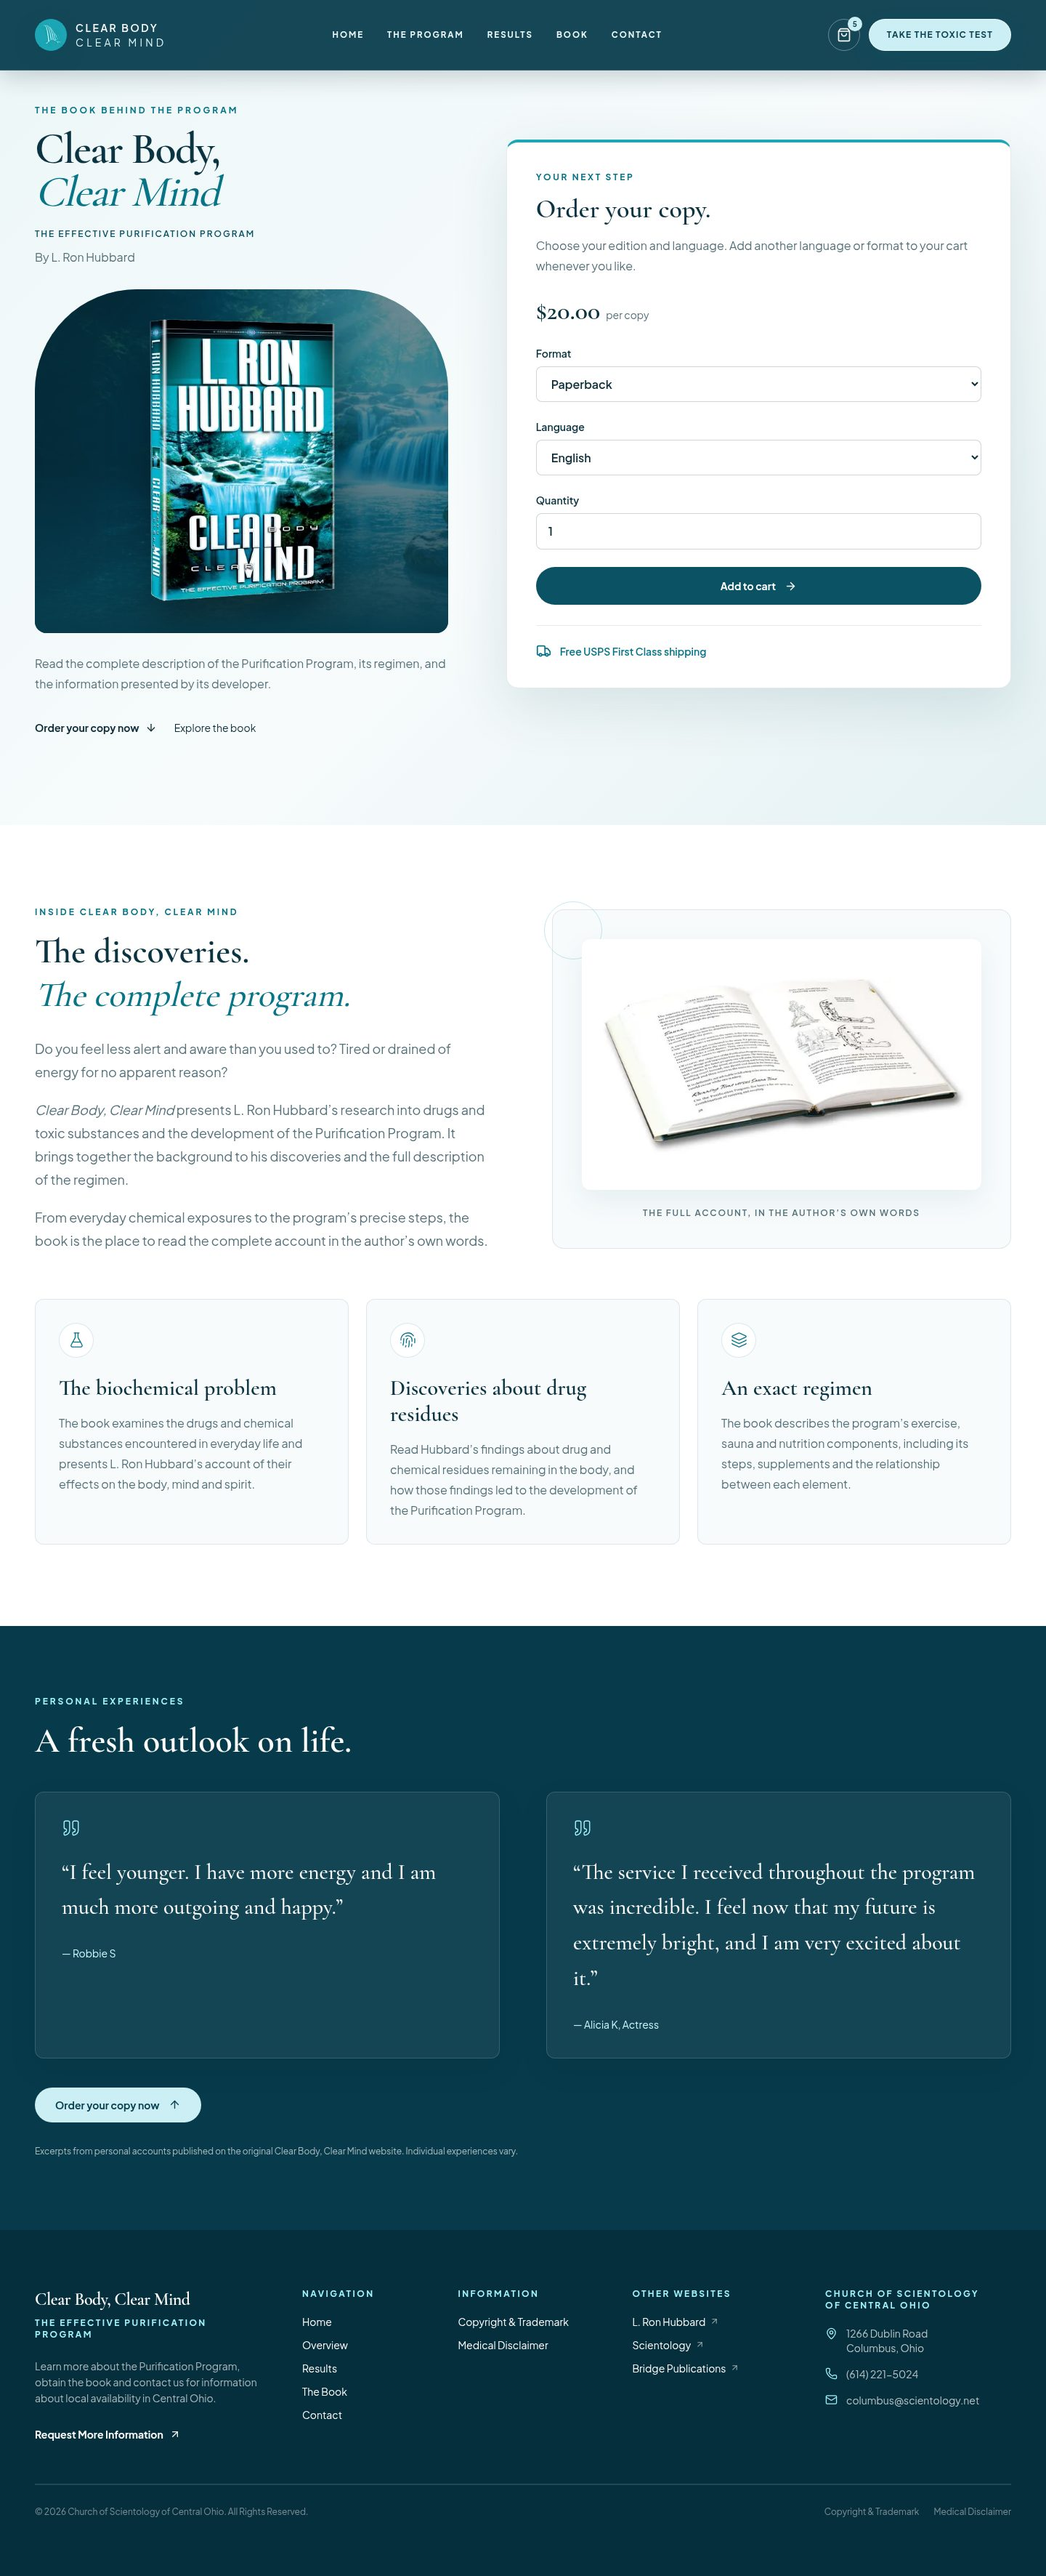
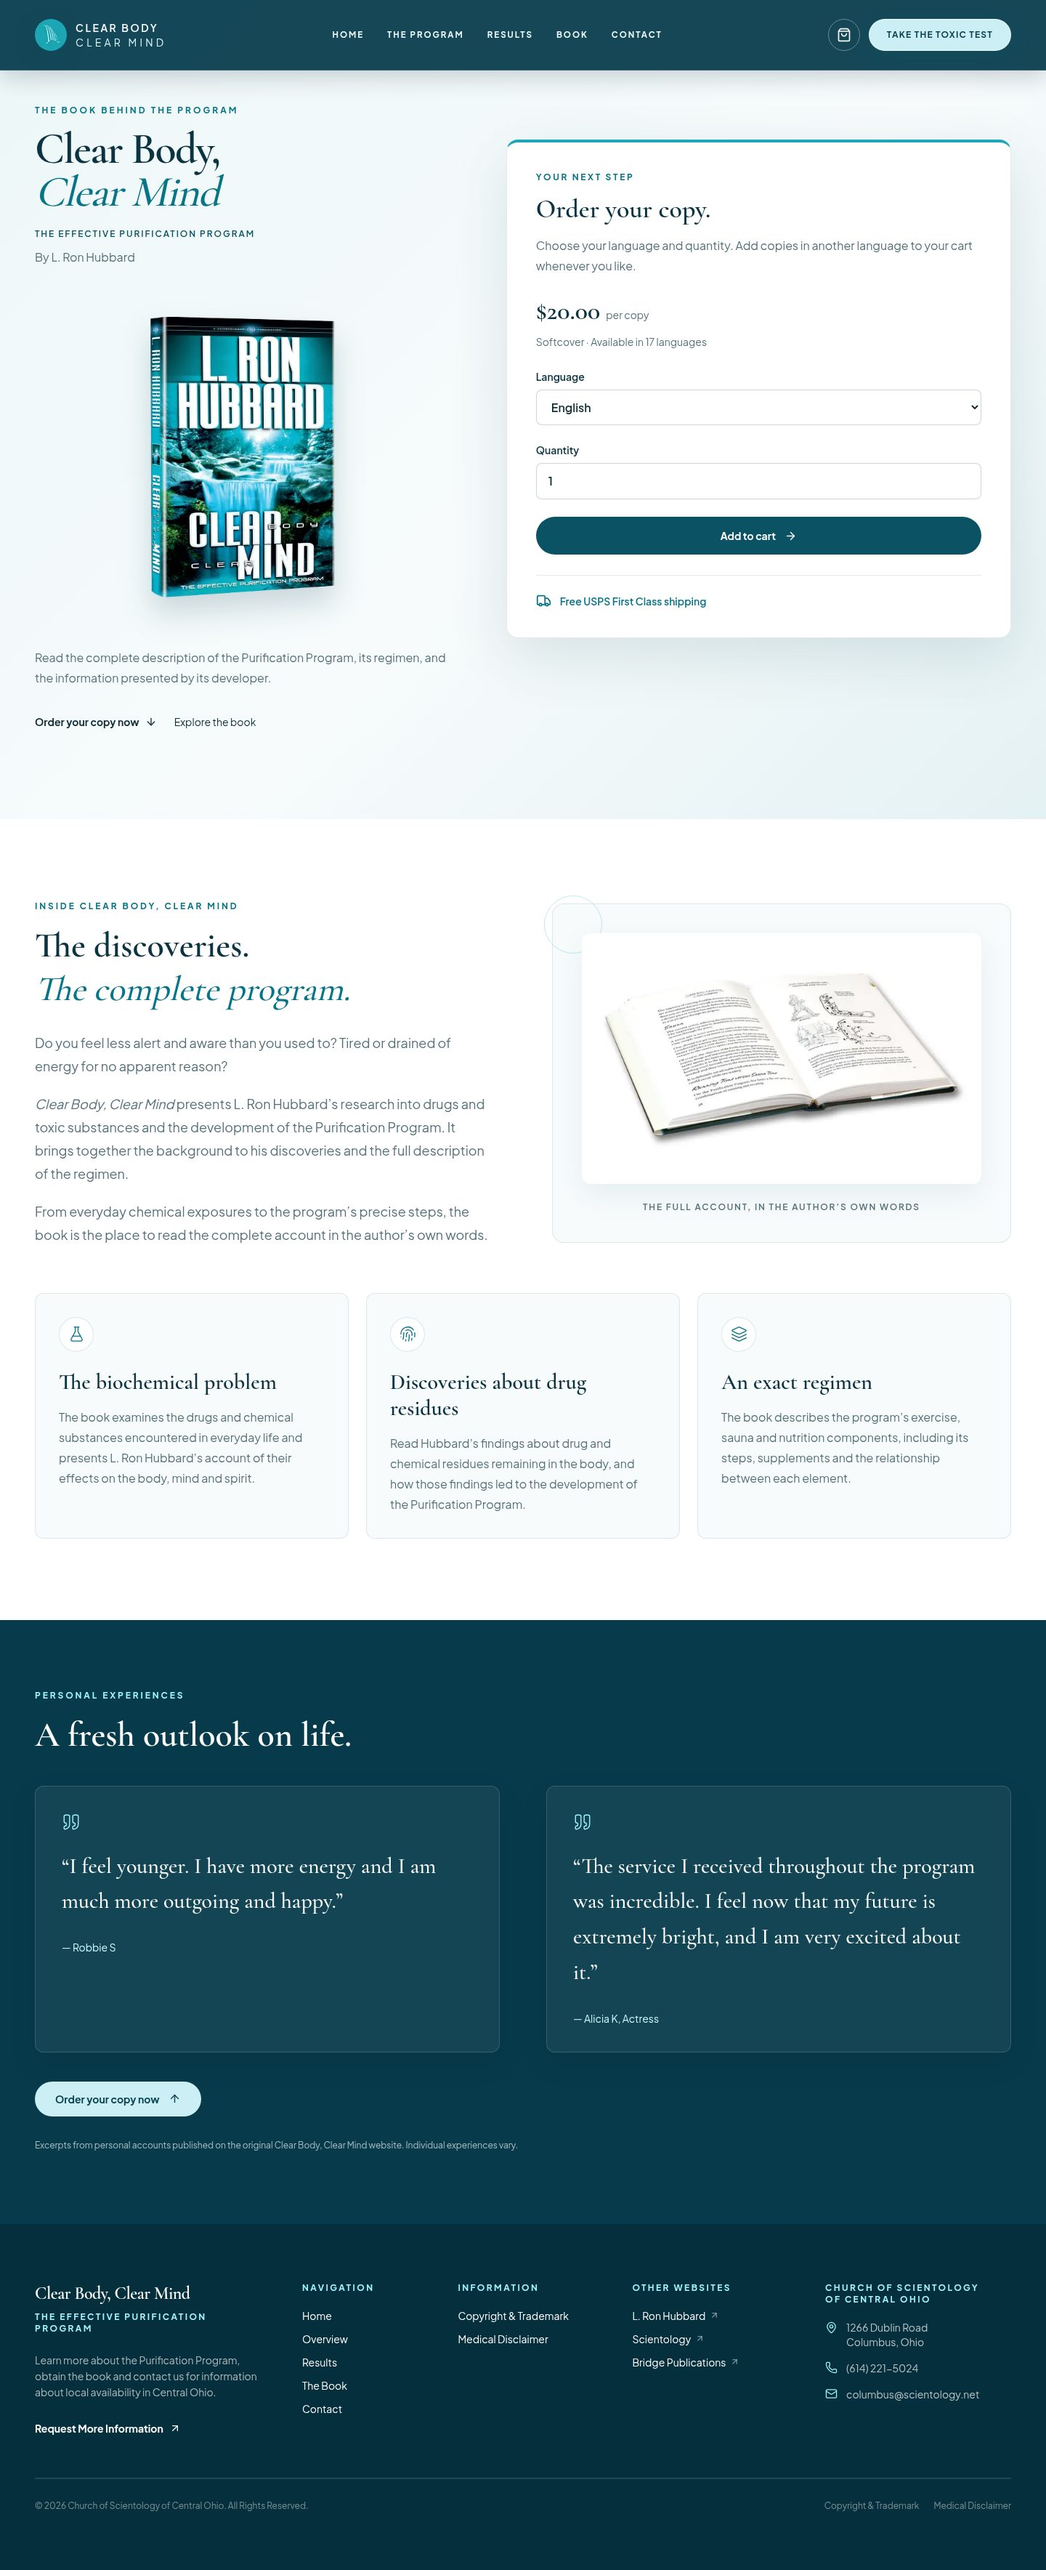
Sell softcover only and simplify the Book product image

diff --git a/components/book/BookOrder.tsx b/components/book/BookOrder.tsx
@@ -5,16 +5,15 @@ import Link from "next/link";
 import { ArrowRight, Check, Truck } from "lucide-react";
 import BookHero from "@/components/book/BookHero";
 import { useCart } from "@/components/shop/useCart";
-import { languages, prices, money, type Format, type Language } from "@/lib/cart";
+import { languages, prices, money, type Language } from "@/lib/cart";
 
 export default function BookOrder() {
   const cart = useCart();
-  const [format, setFormat] = useState<Format>("Paperback");
   const [status, setStatus] = useState<"idle" | "added" | "limit">("idle");
   function add(event: FormEvent<HTMLFormElement>) {
     event.preventDefault();
     const data = new FormData(event.currentTarget);
-    const added = cart.add({ format, language: String(data.get("language")) as Language, quantity: Number(data.get("quantity")) });
+    const added = cart.add({ format: "Paperback", language: String(data.get("language")) as Language, quantity: Number(data.get("quantity")) });
     setStatus(added ? "added" : "limit");
   }
   const input = "mt-2 w-full rounded-lg border border-[#0c3341]/20 bg-white px-4 py-3 text-base text-[#102f3a] focus:border-[#087487] focus:outline-2 focus:outline-offset-2 focus:outline-[#087487]";
@@ -25,11 +24,11 @@ export default function BookOrder() {
         <div id="order" className="scroll-mt-8 rounded-2xl border border-[#0c3341]/10 border-t-4 border-t-[#1da6b5] bg-white p-6 shadow-[0_24px_80px_rgba(10,64,78,0.12)] sm:p-10 lg:mt-12">
           <p className="text-xs font-bold uppercase tracking-[0.22em] text-[#087487]">Your next step</p>
           <h2 className="mt-4 font-display text-4xl font-semibold text-[#0c3341]">Order your copy.</h2>
-          <p className="mt-4 text-base leading-7 text-[#56717a]">Choose your edition and language. Add another language or format to your cart whenever you like.</p>
-          <p className="mt-7 font-display text-4xl font-semibold text-[#0c3341]" aria-live="polite">{money(prices[format])}<span className="ml-2 font-sans text-sm font-normal text-[#56717a]">per copy</span></p>
+          <p className="mt-4 text-base leading-7 text-[#56717a]">Choose your language and quantity. Add copies in another language to your cart whenever you like.</p>
+          <p className="mt-7 font-display text-4xl font-semibold text-[#0c3341]" aria-live="polite">{money(prices.Paperback)}<span className="ml-2 font-sans text-sm font-normal text-[#56717a]">per copy</span></p>
+          <p className="mt-3 text-sm text-[#56717a]">Softcover · Available in 17 languages</p>
           <noscript><style>{".book-purchase-form {display:none}"}</style><p className="mt-5">Enable JavaScript to use the cart, or call (614) 221-5024.</p></noscript>
           <form className="book-purchase-form mt-7 space-y-6" onSubmit={add} onChange={() => setStatus("idle")} aria-label="Add book to cart">
-            <label className="block text-sm font-semibold text-[#0c3341]">Format<select name="format" value={format} onChange={(event) => setFormat(event.target.value as Format)} className={input}>{Object.keys(prices).map((value) => <option key={value}>{value}</option>)}</select></label>
             <label className="block text-sm font-semibold text-[#0c3341]">Language<select name="language" defaultValue="English" className={input}>{languages.map((language) => <option key={language}>{language}</option>)}</select></label>
             <label className="block text-sm font-semibold text-[#0c3341]">Quantity<input name="quantity" type="number" inputMode="numeric" defaultValue={1} min={1} max={99} step={1} required className={input} /></label>
             <button type="submit" disabled={!cart.ready} className="inline-flex min-h-13 w-full items-center justify-center gap-3 rounded-full bg-[#0c5265] px-7 text-sm font-bold text-white transition hover:bg-[#087487] disabled:opacity-60">Add to cart <ArrowRight size={17} /></button>

diff --git a/components/shop/CartContents.tsx b/components/shop/CartContents.tsx
@@ -12,7 +12,7 @@ export default function CartContents() {
   const cart = useCart();
   const [error, setError] = useState("");
   if (!cart.ready) return <p role="status" className="shop-loading py-12 text-[#56717a]">Loading your cart…</p>;
-  if (!cart.items.length) return <div className="rounded-2xl border border-[#0c3341]/10 bg-white px-6 py-16 text-center"><ShoppingBag size={38} strokeWidth={1.2} className="mx-auto text-[#087487]" /><h2 className="mt-6 font-display text-4xl font-semibold text-[#0c3341]">Your cart is empty.</h2><p className="mt-4 text-[#56717a]">Choose your edition and language to get started.</p><Link href="/book" className="mt-7 inline-flex min-h-12 items-center gap-3 rounded-full bg-[#0c5265] px-7 text-sm font-bold !text-white">Explore the book <ArrowRight size={17} /></Link></div>;
+  if (!cart.items.length) return <div className="rounded-2xl border border-[#0c3341]/10 bg-white px-6 py-16 text-center"><ShoppingBag size={38} strokeWidth={1.2} className="mx-auto text-[#087487]" /><h2 className="mt-6 font-display text-4xl font-semibold text-[#0c3341]">Your cart is empty.</h2><p className="mt-4 text-[#56717a]">Choose your language and quantity to get started.</p><Link href="/book" className="mt-7 inline-flex min-h-12 items-center gap-3 rounded-full bg-[#0c5265] px-7 text-sm font-bold !text-white">Explore the book <ArrowRight size={17} /></Link></div>;
   return (
     <div className="grid items-start gap-10 lg:grid-cols-[1.4fr_1fr]">
       <div>
@@ -35,7 +35,7 @@ export default function CartContents() {
           </li>;
         })}</ul>
         {error && <p role="alert" className="mt-4 text-sm text-red-800">{error}</p>}
-        <Link href="/book#order" className="mt-6 inline-flex min-h-11 items-center text-sm font-semibold text-[#087487] underline underline-offset-4">Add another language or edition</Link>
+        <Link href="/book#order" className="mt-6 inline-flex min-h-11 items-center text-sm font-semibold text-[#087487] underline underline-offset-4">Add another language</Link>
       </div>
       <div className="lg:sticky lg:top-8"><OrderSummary items={cart.items} showItems={false} /><Link href="/checkout" className="mt-5 inline-flex min-h-13 w-full items-center justify-center gap-3 rounded-full bg-[#0c5265] px-7 text-sm font-bold !text-white transition hover:bg-[#087487]">Checkout <ArrowRight size={17} /></Link></div>
     </div>

diff --git a/components/book/BookHero.tsx b/components/book/BookHero.tsx
@@ -8,10 +8,8 @@ export default function BookHero() {
       <h1 className="mt-4 font-display text-5xl font-semibold leading-[0.98] tracking-[-0.03em] text-[#0c3341] sm:text-6xl">Clear Body,<br /><span className="font-medium italic text-[#087487]">Clear Mind</span></h1>
       <p className="mt-5 text-xs font-semibold uppercase tracking-[0.16em] text-[#0c5265]">The Effective Purification Program</p>
       <p className="mt-3 text-base text-[#56717a]">By L. Ron Hubbard</p>
-      <div className="relative isolate mt-8 overflow-hidden rounded-t-[100px] rounded-b-2xl bg-[#073b4b] px-8 py-9 sm:rounded-t-[140px]">
-        <Image src="/images/hero/waterfall-hero.png" alt="" fill sizes="(max-width: 1023px) 100vw, 40vw" className="-z-10 object-cover opacity-40" />
-        <div className="pointer-events-none absolute inset-0 -z-10 bg-gradient-to-t from-[#073b4b] via-transparent to-transparent" />
-        <Image src="/images/book/clear-body-clear-mind-book.webp" alt="Clear Body, Clear Mind by L. Ron Hubbard" width={900} height={1280} preload sizes="(max-width: 639px) 60vw, 290px" className="mx-auto h-auto w-full max-w-[240px] drop-shadow-[0_24px_28px_rgba(0,0,0,0.4)] sm:max-w-[290px]" />
+      <div className="relative mt-8 px-8 py-6 sm:py-8">
+        <Image src="/images/book/clear-body-clear-mind-book.webp" alt="Clear Body, Clear Mind by L. Ron Hubbard" width={900} height={1280} preload sizes="(max-width: 639px) 60vw, 290px" className="mx-auto h-auto w-full max-w-[240px] drop-shadow-[0_22px_20px_rgba(7,59,75,0.18)] sm:max-w-[290px]" />
       </div>
       <p className="mt-7 text-base leading-7 text-[#56717a]">Read the complete description of the Purification Program, its regimen, and the information presented by its developer.</p>
       <div className="mt-6 flex flex-wrap gap-x-6 gap-y-3">

diff --git a/components/shop/CheckoutForm.tsx b/components/shop/CheckoutForm.tsx
@@ -21,7 +21,7 @@ export default function CheckoutForm() {
     setError(true);
   }
   if (!cart.ready) return <p role="status" className="shop-loading py-12 text-[#56717a]">Loading checkout…</p>;
-  if (!cart.items.length) return <div className="rounded-2xl border border-[#0c3341]/10 bg-white px-6 py-16 text-center"><h2 className="font-display text-4xl font-semibold text-[#0c3341]">Add a book to get started.</h2><p className="mt-4 text-[#56717a]">Your selected editions and languages will appear here.</p><Link href="/book" className="mt-7 inline-flex min-h-12 items-center gap-3 rounded-full bg-[#0c5265] px-7 text-sm font-bold !text-white">Choose your book <ArrowRight size={17} /></Link></div>;
+  if (!cart.items.length) return <div className="rounded-2xl border border-[#0c3341]/10 bg-white px-6 py-16 text-center"><h2 className="font-display text-4xl font-semibold text-[#0c3341]">Add a book to get started.</h2><p className="mt-4 text-[#56717a]">Your selected languages and quantities will appear here.</p><Link href="/book" className="mt-7 inline-flex min-h-12 items-center gap-3 rounded-full bg-[#0c5265] px-7 text-sm font-bold !text-white">Choose your book <ArrowRight size={17} /></Link></div>;
   return (
     <div className="grid items-start gap-10 lg:grid-cols-[1.25fr_1fr]">
       <div>

diff --git a/lib/cart.ts b/lib/cart.ts
@@ -2,7 +2,7 @@ export const languages = [
   "Chinese Traditional", "Danish", "Dutch", "English", "French", "German", "Greek", "Hebrew", "Hungarian", "Italian", "Japanese", "Norwegian", "Portuguese", "Russian", "Spanish (Castillian)", "Spanish (Latin American)", "Swedish",
 ] as const;
 // Display prices from the supplied reference. Verify local prices before live checkout.
-export const prices = { Paperback: 20, Hardcover: 30 } as const;
+export const prices = { Paperback: 20 } as const;
 export type Format = keyof typeof prices;
 export type Language = (typeof languages)[number];
 export type CartItem = { format: Format; language: Language; quantity: number };

diff --git a/docs/cart-checkout.md b/docs/cart-checkout.md
@@ -1,5 +1,7 @@
 # Cart and checkout
 
+**Current catalog:** softcover (Paperback) only, $20, in all 17 languages. Hardcover has been removed from purchase options and is filtered out of old saved carts. The book artwork now sits directly on the light page background with a subtle shadow; the arched waterfall enclosure is removed.
+
 ## Current flow
 
 `/book` → compact edition/language/quantity selector → Add to cart → `/cart` → `/checkout`.
@@ -12,7 +14,7 @@ The cart is saved under `cbcm-cart-v1` in localStorage, validated when read, and
 
 Languages transcribed from the user's screenshot: Chinese Traditional, Danish, Dutch, English, French, German, Greek, Hebrew, Hungarian, Italian, Japanese, Norwegian, Portuguese, Russian, Spanish (Castillian), Spanish (Latin American), Swedish. The labels match the screenshot. All 17 appear in the Book selector and editable Cart items.
 
-Paperback $20 and Hardcover $30 remain reference display prices pending confirmation for local ordering. User explicitly confirmed free USPS First Class shipping; it appears in the Book purchase box, Cart summary, and Checkout shipping method with a zero shipping charge. No overnight option, delivery-date promise, gift guide, or supported payment-brand claim has been copied from the reference screenshot. The estimated total is subtotal + free shipping; any applicable tax is determined when real payment is connected.
+Softcover (Paperback) $20 remains the reference display price pending confirmation for local ordering. User explicitly confirmed free USPS First Class shipping; it appears in the Book purchase box, Cart summary, and Checkout shipping method with a zero shipping charge. No overnight option, delivery-date promise, gift guide, or supported payment-brand claim has been copied from the reference screenshot. The estimated total is subtotal + free shipping; any applicable tax is determined when real payment is connected.
 
 ## Checkout
 
@@ -30,6 +32,6 @@ Payment fields are read-only presentation placeholders with no names for submiss
 
 Run cart logic checks using Node 22.18+ or Node 24: `node --test tests/cart.test.mjs`.
 
-Five unit tests cover the catalog, merge/separation, language changes, quantity limits, untrusted persisted data, and catalog-priced totals.
+Six unit tests cover the catalog, merge/separation, language changes, quantity limits, untrusted persisted data, and catalog-priced totals.
 
 Production build, ESLint, and TypeScript pass. Chromium verified multiple languages/formats, matching-line merges, quantity/language edits, removal, totals/free shipping, reload and cross-tab synchronization, shipping/billing validation, read-only payment fields, no personal data in cart storage, empty and corrupt cart states, and no-JavaScript fallback. Screenshots checked at 1440px and 390px; additional overflow checks at 640/768/1024/1280px. No page errors or order/payment submissions occurred.
